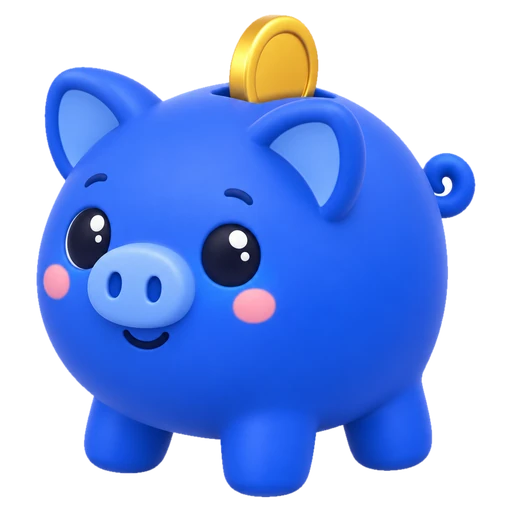
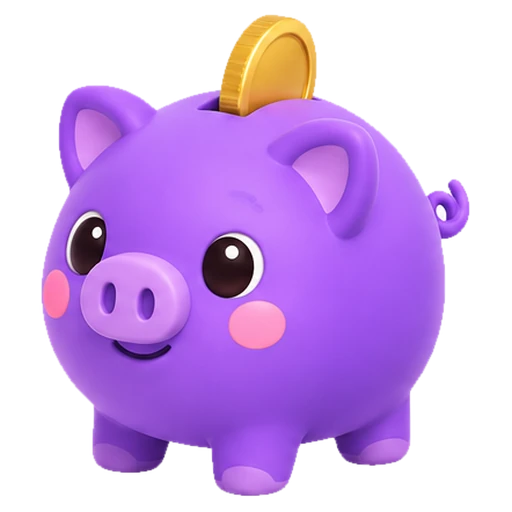
Mascote roxo com seis poses; o do saldo reage ao mês
O porquinho passa a ser roxo e ganha poses: padrão (logo), acenando,
comemorando, preocupado, dormindo e abraçando uma moeda.

O cartão de saldo deixava o mesmo desenho do logo repetido na tela.
Agora ele mostra uma pose conforme o mês: dormindo sem nada cadastrado,
preocupado quando as saídas passam da renda, comemorando com tudo pago
e com a moeda quando está sobrando. Boas-vindas, conclusão da
configuração inicial e telas vazias também usam poses próprias.

Claude-Session: https://claude.ai/code/session_0145iTtacteJYA6xPCbazhxg

diff --git a/src/pages/Dashboard.tsx b/src/pages/Dashboard.tsx
@@ -29,7 +29,7 @@ export function Dashboard() {
       <div className="flex flex-col gap-4 xl:flex-row fit:min-h-0 fit:flex-1">
         <div className="contents min-w-0 flex-1 xl:flex xl:flex-col xl:gap-4">
           <div className="order-1 xl:order-none fit:shrink-0">
-            <BalanceCard sum={sum} />
+            <BalanceCard sum={sum} allPaid={pay.length > 0 && pay.every((p) => p.paid)} />
           </div>
           <div className={cx('order-3 grid grid-cols-1 gap-4 md:grid-cols-2 xl:order-none', FILL, 'fit:grid-rows-[minmax(0,1fr)]')}>
             <BreakdownCard sum={sum} />
@@ -62,7 +62,18 @@ const SCROLL = 'scroll-thin fit:h-full fit:overflow-y-auto'
 
 // ---------- saldo previsto ----------
 
-function BalanceCard({ sum }: { sum: Summary }) {
+/** O mascote reage ao mês, em vez de repetir o logo do menu. */
+const mascotFor = (sum: Summary, allPaid: boolean): { pose: string; alt: string } =>
+  sum.income === 0 && sum.expenses === 0
+    ? { pose: 'mascote-dormindo', alt: 'Mascote dormindo: ainda não há nada cadastrado neste mês' }
+    : sum.leftover < 0
+      ? { pose: 'mascote-preocupado', alt: 'Mascote preocupado: as saídas passam da renda' }
+      : allPaid
+        ? { pose: 'mascote-festa', alt: 'Mascote comemorando: todas as contas do mês estão pagas' }
+        : { pose: 'mascote-moeda', alt: 'Mascote abraçando uma moeda: está sobrando dinheiro no mês' }
+
+function BalanceCard({ sum, allPaid }: { sum: Summary; allPaid: boolean }) {
+  const mascot = mascotFor(sum, allPaid)
   const segs = [
     { label: 'Moradia', value: sum.housing, color: 'var(--s-housing)' },
     { label: 'Outras contas', value: sum.bills, color: 'var(--s-bills)' },
@@ -99,7 +110,7 @@ function BalanceCard({ sum }: { sum: Summary }) {
             </div>
           </div>
         </div>
-        <Emoji name="mascote" size={104} className="hidden drop-shadow-[0_14px_16px_rgb(0_0_0/0.16)] sm:block" />
+        <Emoji name={mascot.pose} alt={mascot.alt} size={104} className="hidden drop-shadow-[0_14px_16px_rgb(0_0_0/0.16)] sm:block" />
       </div>
 
       <div

diff --git a/src/ui.tsx b/src/ui.tsx
@@ -62,11 +62,22 @@ export function Panel({ className, children }: { className?: string; children: R
   )
 }
 
-export function Emoji({ name, size = 48, className }: { name: string; size?: number; className?: string }) {
+export function Emoji({
+  name,
+  size = 48,
+  className,
+  alt = '',
+}: {
+  name: string
+  size?: number
+  className?: string
+  /** Só quando a imagem diz algo que o texto ao redor não diz. */
+  alt?: string
+}) {
   return (
     <img
       src={`/emoji/${name}.webp`}
-      alt=""
+      alt={alt}
       width={size}
       height={size}
       loading="lazy"
@@ -90,7 +101,7 @@ export function EmptyState({
 }) {
   return (
     <div className="flex flex-col items-center px-6 py-10 text-center">
-      <Emoji name={emoji} size={64} />
+      <Emoji name={emoji} size={emoji.startsWith('mascote') ? 96 : 64} />
       <h3 className="mt-3 text-base font-semibold">{title}</h3>
       {children && <p className="mt-1 max-w-sm text-muted">{children}</p>}
       {action && <div className="mt-4">{action}</div>}

diff --git a/src/Setup.tsx b/src/Setup.tsx
@@ -158,7 +158,7 @@ export function SetupWizard() {
     primary = 'Começar'
     body = (
       <div className="text-center">
-        <Emoji name="mascote" size={96} className="mx-auto" />
+        <Emoji name="mascote-oi" size={104} className="mx-auto" />
         <h3 className="mt-3 text-xl font-semibold tracking-[-0.01em]">Oi, {firstName}. Vamos deixar tudo pronto?</h3>
         <p className="mx-auto mt-1 max-w-xs text-muted">
           São 4 passos rápidos. Dá pra pular qualquer um e completar depois.
@@ -305,7 +305,7 @@ export function SetupWizard() {
     const left = incomeTotal - billsTotal - state.user.daily_budget_cents
     body = (
       <div className="text-center">
-        <Emoji name="party" size={64} className="mx-auto" />
+        <Emoji name="mascote-festa" size={104} className="mx-auto" />
         <h3 className="mt-3 text-xl font-semibold tracking-[-0.01em]">Pronto, {firstName}!</h3>
         <dl className="mt-4 space-y-2 text-left">
           <Row label="Renda por mês" cents={incomeTotal} />

diff --git a/src/pages/Bills.tsx b/src/pages/Bills.tsx
@@ -74,7 +74,7 @@ export function Bills() {
 
         {list.length === 0 ? (
           <EmptyState
-            emoji="receipt"
+            emoji="mascote-dormindo"
             title={`Nenhuma conta em ${monthLower(month)}`}
             action={
               <Button variant="primary" onClick={add}>

diff --git a/src/pages/Reserve.tsx b/src/pages/Reserve.tsx
@@ -15,7 +15,7 @@ export function Reserve() {
     return (
       <Panel>
         <EmptyState
-          emoji="umbrella"
+          emoji="mascote-moeda"
           title="Sua reserva começa aqui"
           action={
             <Button

diff --git a/README.md b/README.md
@@ -54,6 +54,6 @@ O segredo `SETUP_CODE` faz a criação da conta exigir um código — evita que 
 
 ## Créditos
 
-Mascote (porquinho-cofre azul): imagem gerada por IA no Figma, em `public/emoji/mascote.webp`.
+Mascote (porquinho-cofre roxo, seis poses): imagens geradas por IA no Figma, em `public/emoji/mascote*.webp`.
 
 Ícones 3D: [Fluent Emoji](https://github.com/microsoft/fluentui-emoji) da Microsoft (licença MIT).
